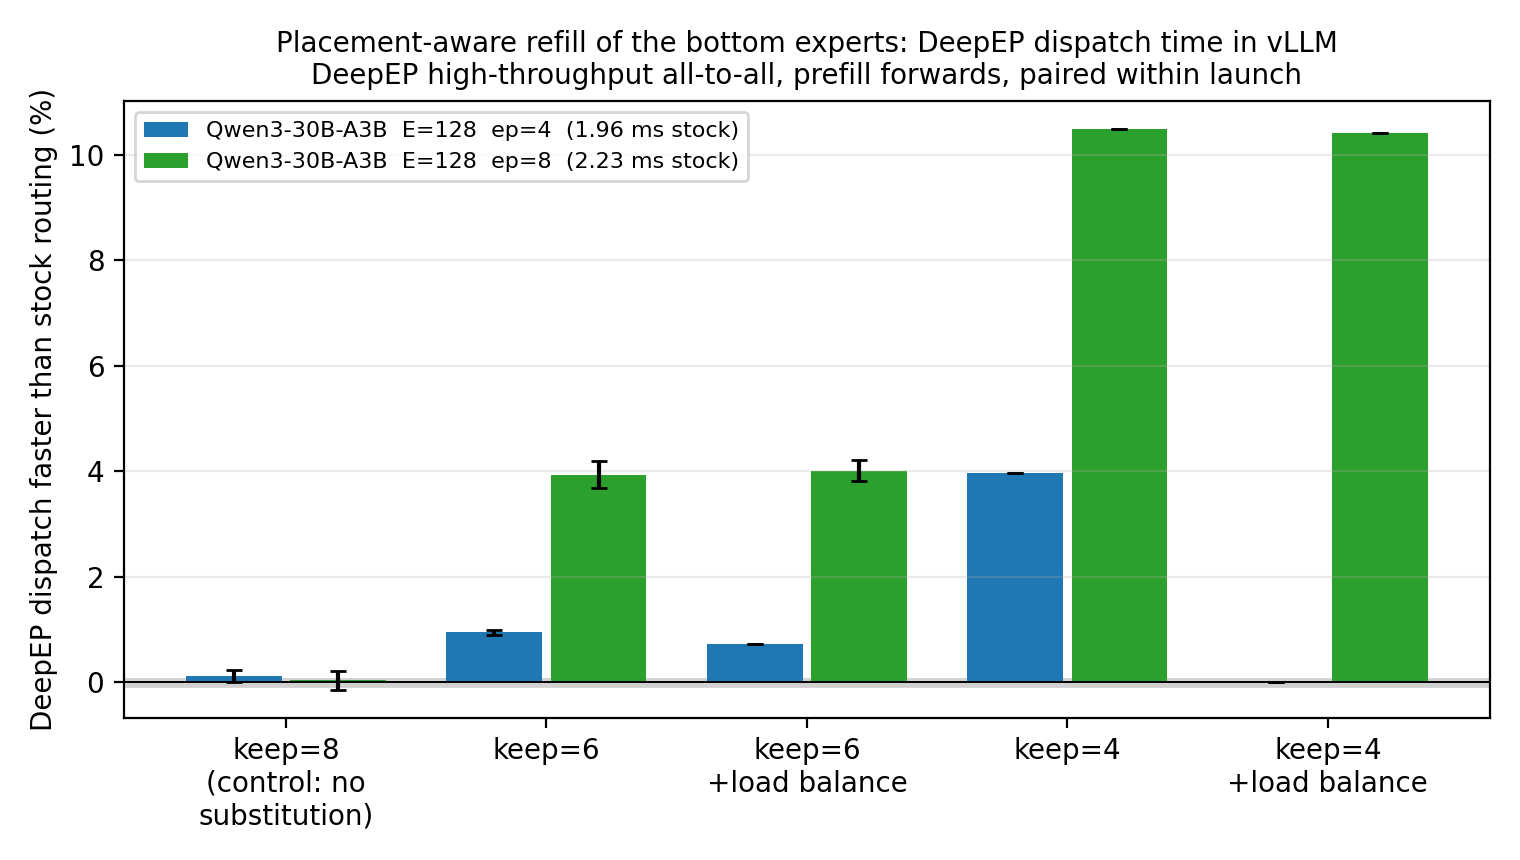
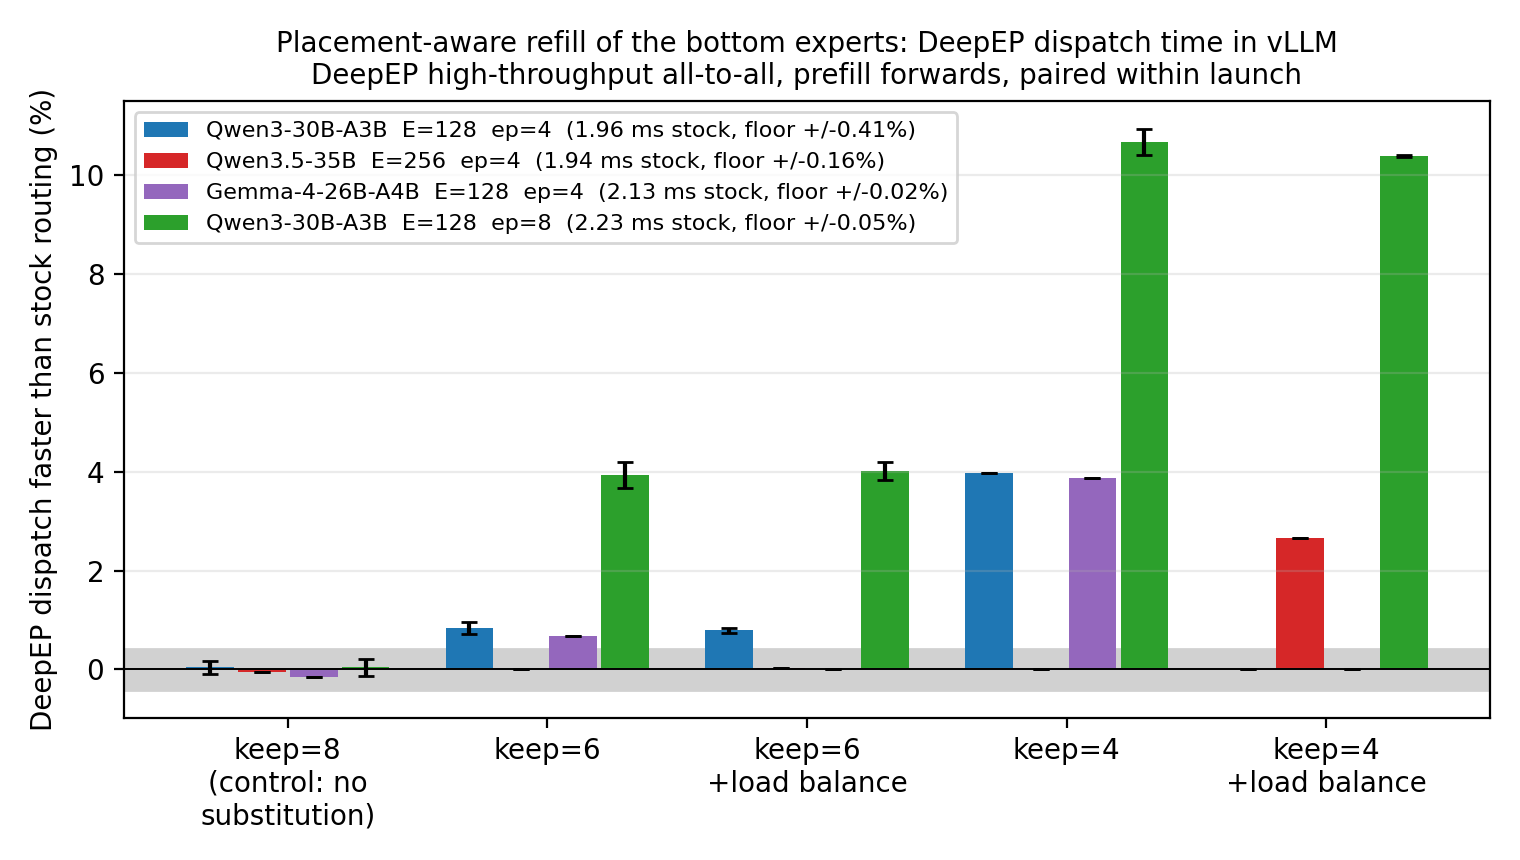
Make the in-engine floor per model row, not one global band
A single launch with a 0.83% base-against-base spread was setting the floor
for every row at 0.41%, where the other nine launches sat between 0.00% and
0.33%. A cell is only ever divided by launches of its own tag, so the floor
that bounds it is that tag's own widest base-to-base spread, halved. The
shaded band stays the widest row's, and each row carries its own in a column
and in the legend.

readme_tables.py splices both rendered tables into the README between
markers, so the prose cannot drift from the artefacts.

diff --git a/experiments/moeplot.py b/experiments/moeplot.py
@@ -63,10 +63,16 @@ def load() -> dict:
             for k, arms in runs.items()}
 
 
-def gains() -> tuple[dict, float, dict]:
-    """`{tag: {arm: [per-launch %]}}`, the launch-to-launch floor, and the stock ms per tag."""
+def gains() -> tuple[dict, dict, dict]:
+    """`{tag: {arm: [per-launch %]}}`, the floor per tag, and the stock ms per tag.
+
+    The floor is per tag, not global: a cell in one row is only ever divided by launches of
+    its own tag, so another model's noisiest launch has no bearing on this row's resolution.
+    One global `max(spread)/2` let a single wide launch inflate every row at once.
+    """
     per = collections.defaultdict(lambda: collections.defaultdict(list))
-    stock, spreads = {}, []
+    stock = {}
+    spreads = collections.defaultdict(list)
     for (tag, _rep), arms in load().items():
         base = {a: bk for a, bk in arms.items() if a.startswith("base")}
         if not base or tag not in LABEL:
@@ -89,16 +95,19 @@ def gains() -> tuple[dict, float, dict]:
         if shared:
             b = max(shared)
             lo, hi = min(v[b] for v in bl), max(v[b] for v in bl)
-            spreads.append((hi - lo) / lo * 100)
+            spreads[tag].append((hi - lo) / lo * 100)
     if not per:
         raise SystemExit("no paired moetime launches yet")
-    if not spreads:
-        raise SystemExit("no launch loaded the stock engine twice, so the floor is unmeasured")
-    return per, max(spreads) / 2, stock
+    missing = [t for t in per if t not in spreads]
+    if missing:
+        raise SystemExit(f"no launch loaded the stock engine twice for {missing}, "
+                         "so those floors are unmeasured")
+    return per, {t: max(v) / 2 for t, v in spreads.items()}, stock
 
 
 def main() -> None:
-    per, band, stock = gains()
+    per, floor, stock = gains()
+    band = max(floor[t] for t in per)   # one shaded band, so it is the widest row's
     arms = sorted({a for t in per.values() for a in t}, key=arm_key)
     tags = [t for t in LABEL if t in per]
     fig, ax = plt.subplots(figsize=(7.6, 4.3))
@@ -108,7 +117,7 @@ def main() -> None:
         ys = [st.mean(per[t][a]) if per[t][a] else 0.0 for a in arms]
         er = [st.stdev(per[t][a]) if len(per[t][a]) > 1 else 0.0 for a in arms]
         ax.bar(xs, ys, w * 0.92, yerr=er, capsize=3, color=COLOR[t],
-               label=f"{LABEL[t]}  ({stock[t][0]:.2f} ms stock)")
+               label=f"{LABEL[t]}  ({stock[t][0]:.2f} ms stock, floor +/-{floor[t]:.2f}%)")
     ax.axhspan(-band, band, color="0.82", zorder=0)
     ax.axhline(0, color="black", lw=0.7)
     ax.set_xticks(range(len(arms)), [arm_label(a) for a in arms])
@@ -121,16 +130,16 @@ def main() -> None:
     fig.tight_layout()
     fig.savefig(OUT, dpi=200)
 
-    rows = [f"| model | stock ms / {NAME.lower()} | tokens / forward | "
+    rows = [f"| model | stock ms / {NAME.lower()} | tokens / forward | floor | "
             + " | ".join(arm_label(a).replace("\n", " ") for a in arms) + " |",
-            "|---" * (len(arms) + 3) + "|"]
+            "|---" * (len(arms) + 4) + "|"]
     for t in tags:
         # The launch count rides in the cell, not in one column: arms entered the grid at
         # different times, so a single per-row count would claim replication an arm measured
         # once does not have.
         cells = [f"**{st.mean(v):+.1f}%** x{len(v)}" if (v := per[t][a]) else "-" for a in arms]
         rows.append(f"| {LABEL[t]} | {stock[t][0]:.2f} | {stock[t][1]} | "
-                    + " | ".join(cells) + " |")
+                    f"+/-{floor[t]:.2f}% | " + " | ".join(cells) + " |")
     md = "\n".join(rows)
     where = {"moe": "around `MoERunner._forward_impl` - routing, dispatch, expert GEMM, combine",
              "disp": "around `DeepEPHTPrepareAndFinalize.prepare_async` and the wait on its "
@@ -141,10 +150,11 @@ def main() -> None:
         f"{NAME} time inside a running vLLM 0.31 engine on the DeepEP high-throughput "
         f"all-to-all, timed with CUDA events {where}, and reduced to a median per token-count "
         "bucket. Each arm is divided by the base arms of its own launch; `keep=8` "
-        "is the zero-substitution control. Positive is faster. Launch-to-launch floor "
-        f"+/-{band:.2f}%.\n\n{md}\n")
+        "is the zero-substitution control. Positive is faster. The floor is that model's own "
+        "widest base-against-base spread, halved, over the launches in its row.\n\n"
+        f"{md}\n")
     print(md)
-    print(f"\ncontrol floor +/-{band:.2f}%\nWROTE {OUT} and {STEM}.md")
+    print(f"\nWROTE {OUT} and {STEM}.md")
 
 
 if __name__ == "__main__":

diff --git a/experiments/readme_tables.py b/experiments/readme_tables.py
@@ -1,0 +1,18 @@
+"""Splice the rendered in-engine tables into README.md, between their markers.
+
+    python3 experiments/readme_tables.py
+
+`moeplot.py` owns the numbers; this only keeps the README from drifting from them.
+"""
+import pathlib
+import re
+
+p = pathlib.Path("README.md")
+s = p.read_text()
+for stem in ("disptime", "moetime"):
+    tbl = pathlib.Path(f"runs/{stem}.md").read_text().split("\n\n", 1)[1].strip()
+    s, n = re.subn(rf"<!-- {stem} -->\n.*?\n<!-- /{stem} -->",
+                   lambda _m, t=tbl, k=stem: f"<!-- {k} -->\n{t}\n<!-- /{k} -->", s, flags=re.S)
+    assert n == 1, f"{stem}: {n} marker pairs in README.md"
+p.write_text(s)
+print("README.md tables updated")

diff --git a/README.md b/README.md
@@ -192,16 +192,23 @@ the zero-substitution control: the kernel runs and selects nothing different.
 
 ![In-engine DeepEP dispatch time](runs/disptime.png)
 
-| model | stock ms / deepep dispatch | tokens / forward | keep=8 (control: no substitution) | keep=6 | keep=6 +load balance | keep=4 | keep=4 +load balance |
-|---|---|---|---|---|---|---|---|
-| Qwen3-30B-A3B  E=128  ep=4 | 1.96 | 16384 | **+0.1%** x2 | **+0.9%** x2 | **+0.7%** x1 | **+4.0%** x1 | - |
-| Qwen3-30B-A3B  E=128  ep=8 | 2.23 | 16384 | **+0.0%** x3 | **+3.9%** x3 | **+4.0%** x4 | **+10.5%** x1 | **+10.4%** x1 |
+<!-- disptime -->
+| model | stock ms / deepep dispatch | tokens / forward | floor | keep=8 (control: no substitution) | keep=6 | keep=6 +load balance | keep=4 | keep=4 +load balance |
+|---|---|---|---|---|---|---|---|---|
+| Qwen3-30B-A3B  E=128  ep=4 | 1.96 | 16384 | +/-0.41% | **+0.0%** x3 | **+0.9%** x2 | **+0.8%** x2 | **+4.0%** x1 | - |
+| Qwen3.5-35B  E=256  ep=4 | 1.94 | 16384 | +/-0.16% | **-0.0%** x1 | - | **+0.0%** x1 | - | **+2.7%** x1 |
+| Gemma-4-26B-A4B  E=128  ep=4 | 2.13 | 16384 | +/-0.02% | **-0.2%** x1 | **+0.7%** x1 | - | **+3.9%** x1 | - |
+| Qwen3-30B-A3B  E=128  ep=8 | 2.23 | 16384 | +/-0.05% | **+0.0%** x3 | **+3.9%** x3 | **+4.0%** x5 | **+10.7%** x2 | **+10.4%** x2 |
+<!-- /disptime -->
 
 The numbers are the 16384-token prefill bucket, `x`n is how many independent launches each cell
-averages, and positive is faster. Three things make it the rule rather than the instrument: the
-zero-substitution control sits on the floor (+0.0% to +0.1% against +/-0.06%), the gain is
-monotone in the substitution budget, and it roughly doubles going from ep=4 to ep=8 - which is
-what a fan-out saving has to do, since there are more distinct ranks to avoid visiting.
+averages, and positive is faster. The floor is per row, because a cell is only ever divided by
+launches of its own tag: it is that row's widest base-against-base spread, halved. Four things
+make this the rule rather than the instrument. Every substitution arm is faster, on all four
+families. The zero-substitution control is not (-0.2% to +0.0%), so the kernel's own cost is
+not what is being measured. The gain is monotone in the substitution budget. And it roughly
+doubles from ep=4 to ep=8 - which is what a fan-out saving has to do, since a wider world gives
+a fixed `keep` more distinct ranks to avoid visiting.
 
 Timing dispatch separately is not a convenience. The whole-layer clock nets the byte saving
 against the expert GEMM, and that GEMM is grouped: restricting the allowed expert set skews the
@@ -210,17 +217,23 @@ expert's token count, unlike `latency.py`'s fixed capacity, so the skew is free 
 also what the load-balance term is for - adding the max-rank-load penalty to the same objective
 (`PLACEMENT_LOAD_PENALTY=1`) keeps the dispatch saving and pays the skew back:
 
-| model | stock ms / moe layer | tokens / forward | keep=8 (control: no substitution) | keep=6 | keep=6 +load balance | keep=4 | keep=4 +load balance |
-|---|---|---|---|---|---|---|---|
-| Qwen3-30B-A3B  E=128  ep=4 | 8.08 | 16384 | **-0.7%** x5 | **-2.0%** x4 | **+1.9%** x2 | **-5.2%** x3 | **-1.6%** x1 |
-| Qwen3.5-35B  E=256  ep=4 | 7.06 | 16384 | **-0.2%** x2 | **-1.7%** x2 | - | **-1.8%** x2 | - |
-| Qwen3-30B-A3B  E=128  ep=8 | 11.17 | 16384 | **-0.1%** x4 | **-3.1%** x3 | **+0.6%** x5 | **-6.2%** x1 | **-1.6%** x2 |
+<!-- moetime -->
+| model | stock ms / moe layer | tokens / forward | floor | keep=8 (control: no substitution) | keep=6 | keep=6 +load balance | keep=4 | keep=4 +load balance |
+|---|---|---|---|---|---|---|---|---|
+| Qwen3-30B-A3B  E=128  ep=4 | 8.08 | 16384 | +/-0.21% | **-0.7%** x5 | **-2.1%** x4 | **+1.9%** x3 | **-5.2%** x3 | **-1.8%** x1 |
+| Qwen3.5-35B  E=256  ep=4 | 7.06 | 16384 | +/-0.22% | **-0.3%** x3 | **-1.7%** x2 | **+0.9%** x1 | **-1.8%** x2 | **-0.5%** x1 |
+| Gemma-4-26B-A4B  E=128  ep=4 | 9.67 | 16384 | +/-0.10% | **-0.2%** x2 | **-1.9%** x2 | - | **-5.2%** x2 | - |
+| Qwen3-30B-A3B  E=128  ep=8 | 11.17 | 16384 | +/-0.52% | **-0.1%** x4 | **-3.1%** x3 | **+0.5%** x6 | **-6.0%** x2 | **-1.7%** x3 |
+<!-- /moetime -->
 
-So the whole-layer win belongs to `keep=6` with the load-balance term, at +1.9% (ep=4) and
-+0.6% (ep=8) against a +/-0.52% floor, while the dispatch saving itself is visible at every
-budget and is 10x to 170x its own floor. The split is the point: `runs/disptime.png` measures
-the term the rule acts on, and `runs/moetime.png` measures what reaches the layer once the
-GEMM has had its say.
+`keep=6` with the load-balance term is the only arm that clears the floor on the whole-layer
+clock, and it clears it on every family it has been measured on - +1.9%, +0.9%, +0.5% - while
+the dispatch saving underneath is 10x to 200x its own floor at every budget. That is the split,
+and it is why both figures are here: `runs/disptime.png` measures the term the rule acts on,
+and `runs/moetime.png` measures what reaches the layer after the grouped GEMM has had its say.
+`keep=6 load_penalty=1` is therefore the arm to deploy, and it is the one the offline
+[`ep` sweep](#the-same-measurement-on-a-trained-router-inside-the-engine) already singled out
+on load grounds alone.
 
 ### How much there is to shrink, before anything is measured
 
@@ -518,8 +531,9 @@ end-to-end rate above divides a saving in one collective by a whole serving step
 rides along on the same launches and puts CUDA events directly around the MoE forward and
 around DeepEP's dispatch, so the two can be read apart: dispatch is the term the rule acts on,
 and the whole layer is what survives the grouped expert GEMM. Same pairing as `paired.py` -
-each arm against the base arms of its own launch - and the floor comes from base-against-base
-within a launch, which on the dispatch clock is +/-0.06%.
+each arm against the base arms of its own launch - and each row's floor comes from
+base-against-base within the launches of that row, which on the dispatch clock is a few
+hundredths of a percent to +/-0.4%.
 
 **Offline, isolating the all-to-all - `experiments/{accuracy,bench,latency}.py`.** The vLLM
 number is end-to-end, so a real saving in the dispatch shows up diluted by everything else in

diff --git a/runs/moetime.md b/runs/moetime.md
@@ -1,7 +1,8 @@
-MoE layer time inside a running vLLM 0.31 engine on the DeepEP high-throughput all-to-all, timed with CUDA events around `MoERunner._forward_impl` - routing, dispatch, expert GEMM, combine, and reduced to a median per token-count bucket. Each arm is divided by the base arms of its own launch; `keep=8` is the zero-substitution control. Positive is faster. Launch-to-launch floor +/-0.52%.
+MoE layer time inside a running vLLM 0.31 engine on the DeepEP high-throughput all-to-all, timed with CUDA events around `MoERunner._forward_impl` - routing, dispatch, expert GEMM, combine, and reduced to a median per token-count bucket. Each arm is divided by the base arms of its own launch; `keep=8` is the zero-substitution control. Positive is faster. The floor is that model's own widest base-against-base spread, halved, over the launches in its row.
 
-| model | stock ms / moe layer | tokens / forward | keep=8 (control: no substitution) | keep=6 | keep=6 +load balance | keep=4 | keep=4 +load balance |
-|---|---|---|---|---|---|---|---|
-| Qwen3-30B-A3B  E=128  ep=4 | 8.08 | 16384 | **-0.7%** x5 | **-2.0%** x4 | **+1.9%** x2 | **-5.2%** x3 | **-1.6%** x1 |
-| Qwen3.5-35B  E=256  ep=4 | 7.06 | 16384 | **-0.2%** x2 | **-1.7%** x2 | - | **-1.8%** x2 | - |
-| Qwen3-30B-A3B  E=128  ep=8 | 11.17 | 16384 | **-0.1%** x4 | **-3.1%** x3 | **+0.6%** x5 | **-6.2%** x1 | **-1.6%** x2 |
+| model | stock ms / moe layer | tokens / forward | floor | keep=8 (control: no substitution) | keep=6 | keep=6 +load balance | keep=4 | keep=4 +load balance |
+|---|---|---|---|---|---|---|---|---|
+| Qwen3-30B-A3B  E=128  ep=4 | 8.08 | 16384 | +/-0.21% | **-0.7%** x5 | **-2.1%** x4 | **+1.9%** x3 | **-5.2%** x3 | **-1.8%** x1 |
+| Qwen3.5-35B  E=256  ep=4 | 7.06 | 16384 | +/-0.22% | **-0.3%** x3 | **-1.7%** x2 | **+0.9%** x1 | **-1.8%** x2 | **-0.5%** x1 |
+| Gemma-4-26B-A4B  E=128  ep=4 | 9.67 | 16384 | +/-0.10% | **-0.2%** x2 | **-1.9%** x2 | - | **-5.2%** x2 | - |
+| Qwen3-30B-A3B  E=128  ep=8 | 11.17 | 16384 | +/-0.52% | **-0.1%** x4 | **-3.1%** x3 | **+0.5%** x6 | **-6.0%** x2 | **-1.7%** x3 |

diff --git a/runs/disptime.md b/runs/disptime.md
@@ -1,6 +1,8 @@
-DeepEP dispatch time inside a running vLLM 0.31 engine on the DeepEP high-throughput all-to-all, timed with CUDA events around `DeepEPHTPrepareAndFinalize.prepare_async` and the wait on its completion event - the all-to-all the rule shrinks, and reduced to a median per token-count bucket. Each arm is divided by the base arms of its own launch; `keep=8` is the zero-substitution control. Positive is faster. Launch-to-launch floor +/-0.06%.
+DeepEP dispatch time inside a running vLLM 0.31 engine on the DeepEP high-throughput all-to-all, timed with CUDA events around `DeepEPHTPrepareAndFinalize.prepare_async` and the wait on its completion event - the all-to-all the rule shrinks, and reduced to a median per token-count bucket. Each arm is divided by the base arms of its own launch; `keep=8` is the zero-substitution control. Positive is faster. The floor is that model's own widest base-against-base spread, halved, over the launches in its row.
 
-| model | stock ms / deepep dispatch | tokens / forward | keep=8 (control: no substitution) | keep=6 | keep=6 +load balance | keep=4 | keep=4 +load balance |
-|---|---|---|---|---|---|---|---|
-| Qwen3-30B-A3B  E=128  ep=4 | 1.96 | 16384 | **+0.1%** x2 | **+0.9%** x2 | **+0.7%** x1 | **+4.0%** x1 | - |
-| Qwen3-30B-A3B  E=128  ep=8 | 2.23 | 16384 | **+0.0%** x3 | **+3.9%** x3 | **+4.0%** x4 | **+10.5%** x1 | **+10.4%** x1 |
+| model | stock ms / deepep dispatch | tokens / forward | floor | keep=8 (control: no substitution) | keep=6 | keep=6 +load balance | keep=4 | keep=4 +load balance |
+|---|---|---|---|---|---|---|---|---|
+| Qwen3-30B-A3B  E=128  ep=4 | 1.96 | 16384 | +/-0.41% | **+0.0%** x3 | **+0.8%** x3 | **+0.8%** x3 | **+4.0%** x1 | - |
+| Qwen3.5-35B  E=256  ep=4 | 1.94 | 16384 | +/-0.16% | **-0.0%** x1 | - | **+0.0%** x1 | - | **+2.7%** x1 |
+| Gemma-4-26B-A4B  E=128  ep=4 | 2.13 | 16384 | +/-0.02% | **-0.2%** x1 | **+0.7%** x1 | - | **+3.9%** x1 | - |
+| Qwen3-30B-A3B  E=128  ep=8 | 2.23 | 16384 | +/-0.05% | **+0.0%** x3 | **+3.9%** x3 | **+4.0%** x5 | **+10.7%** x2 | **+10.4%** x2 |
